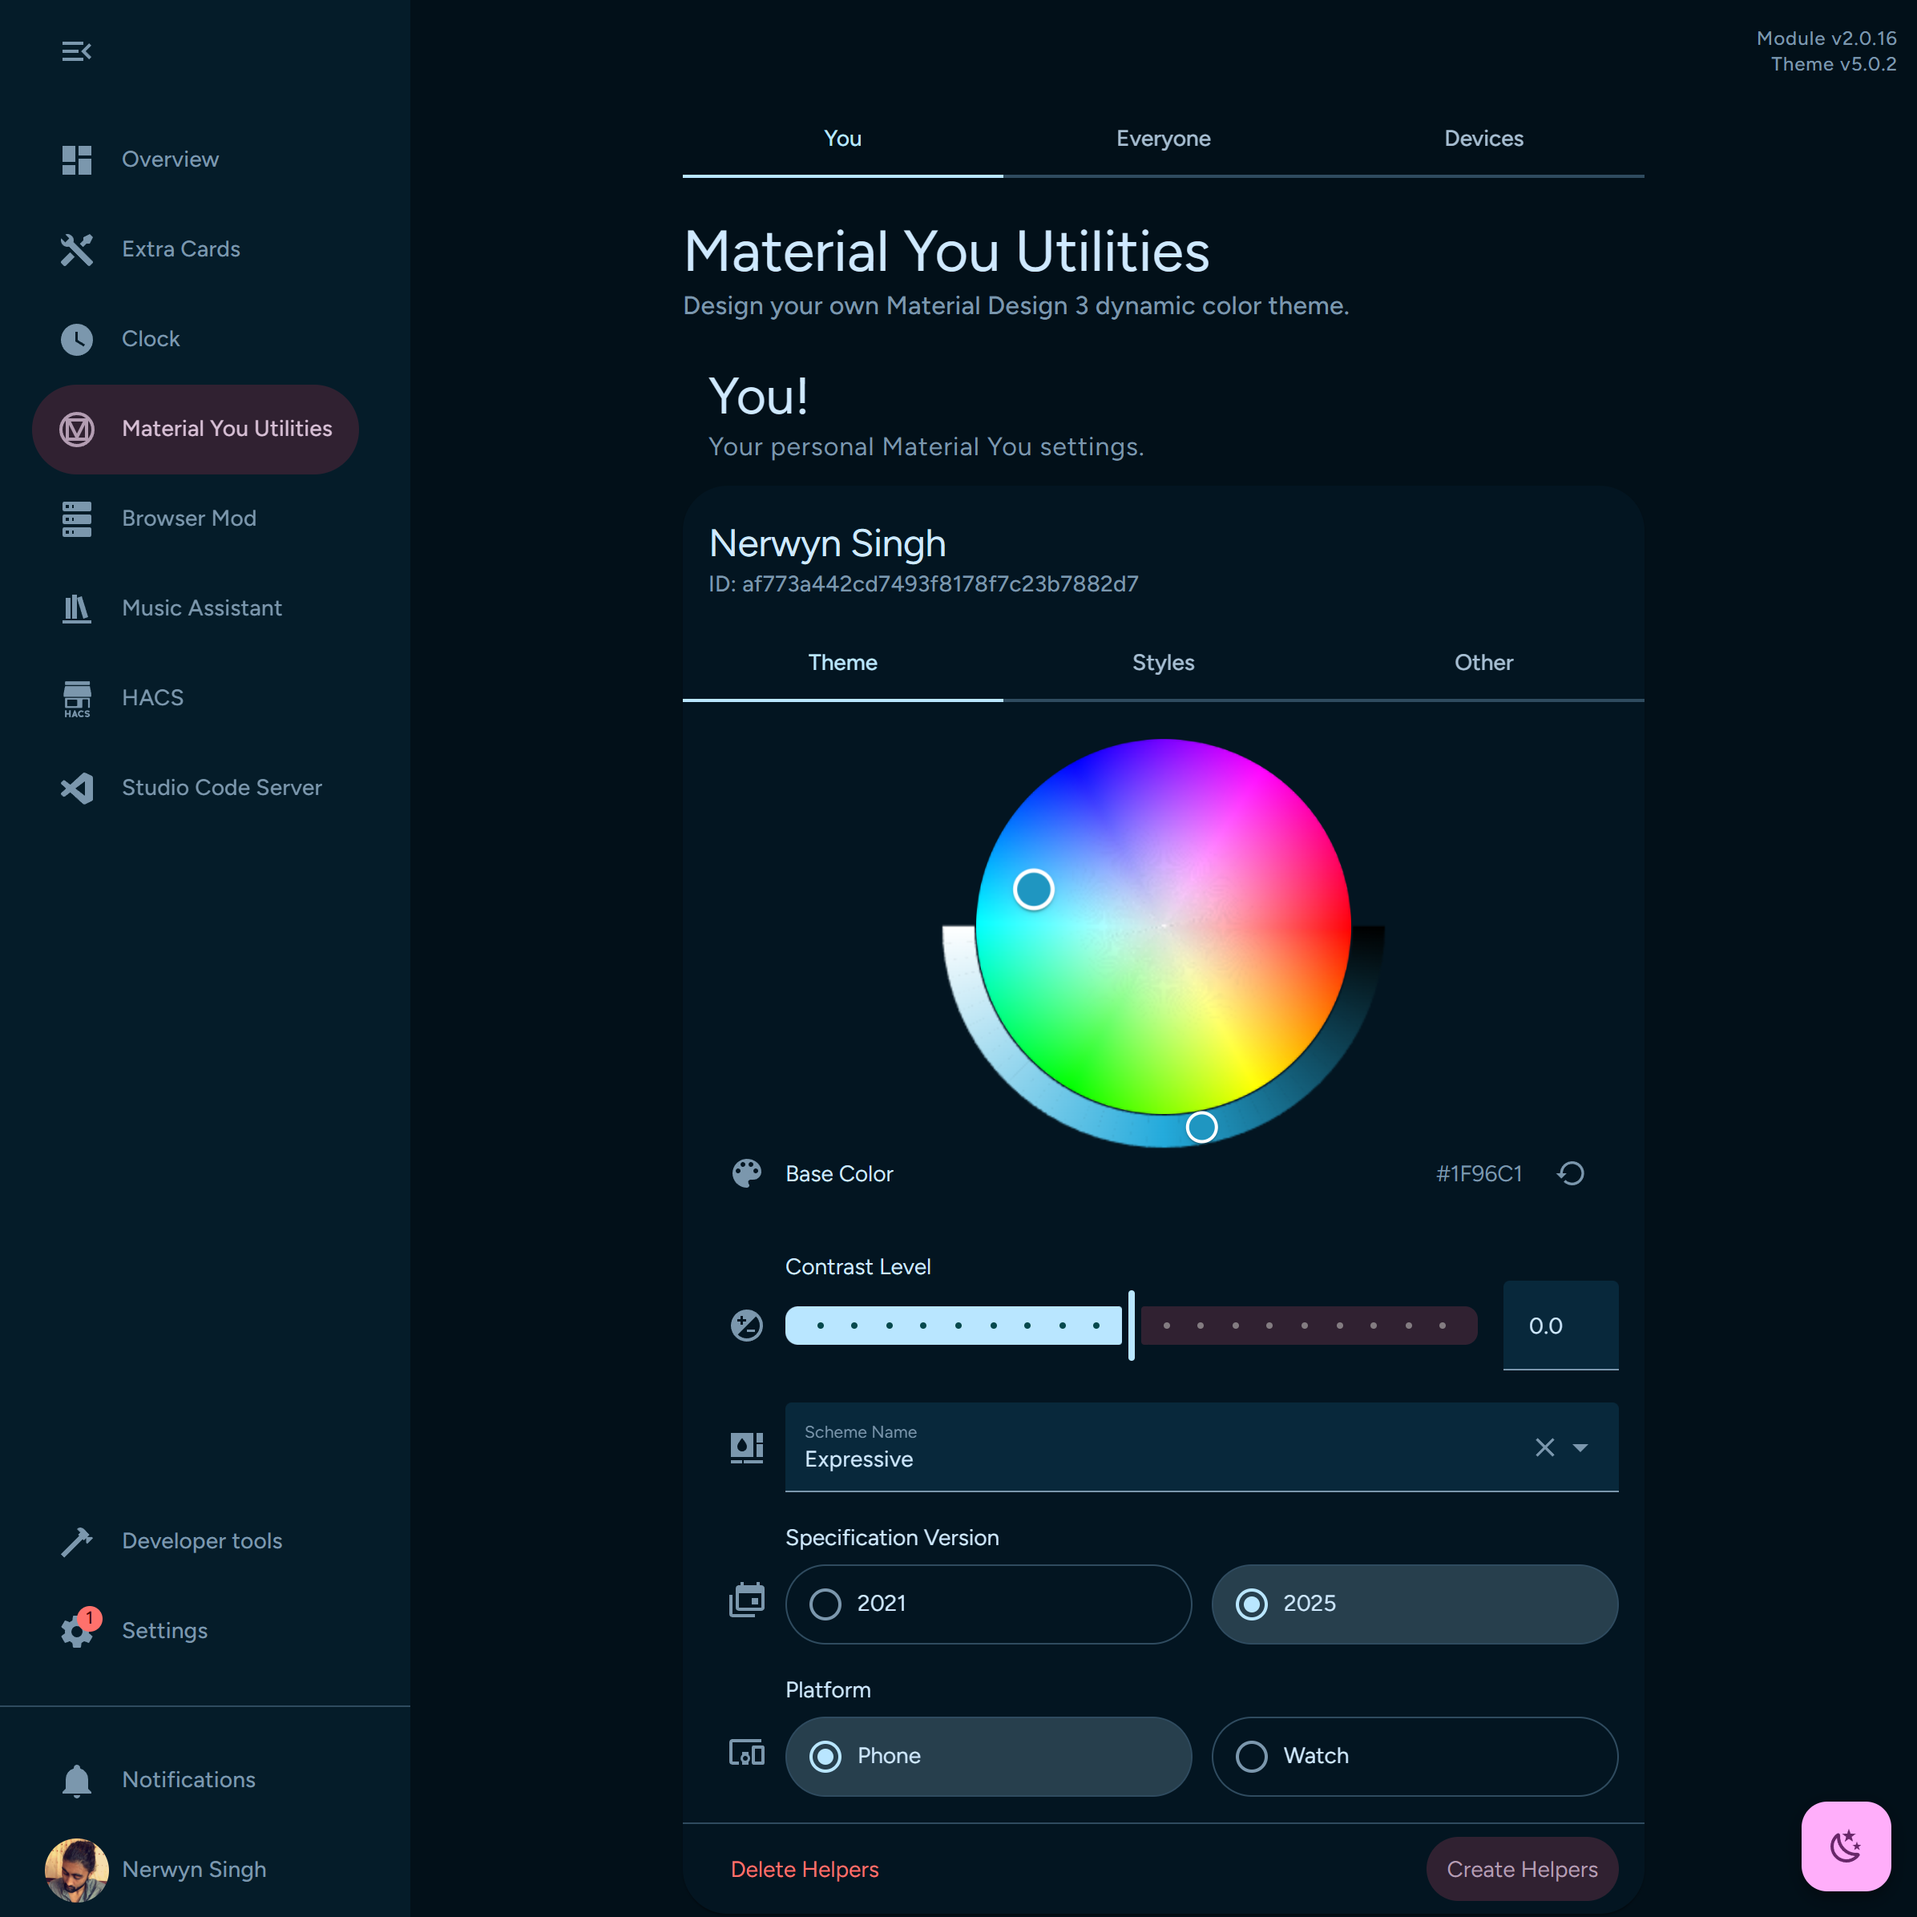
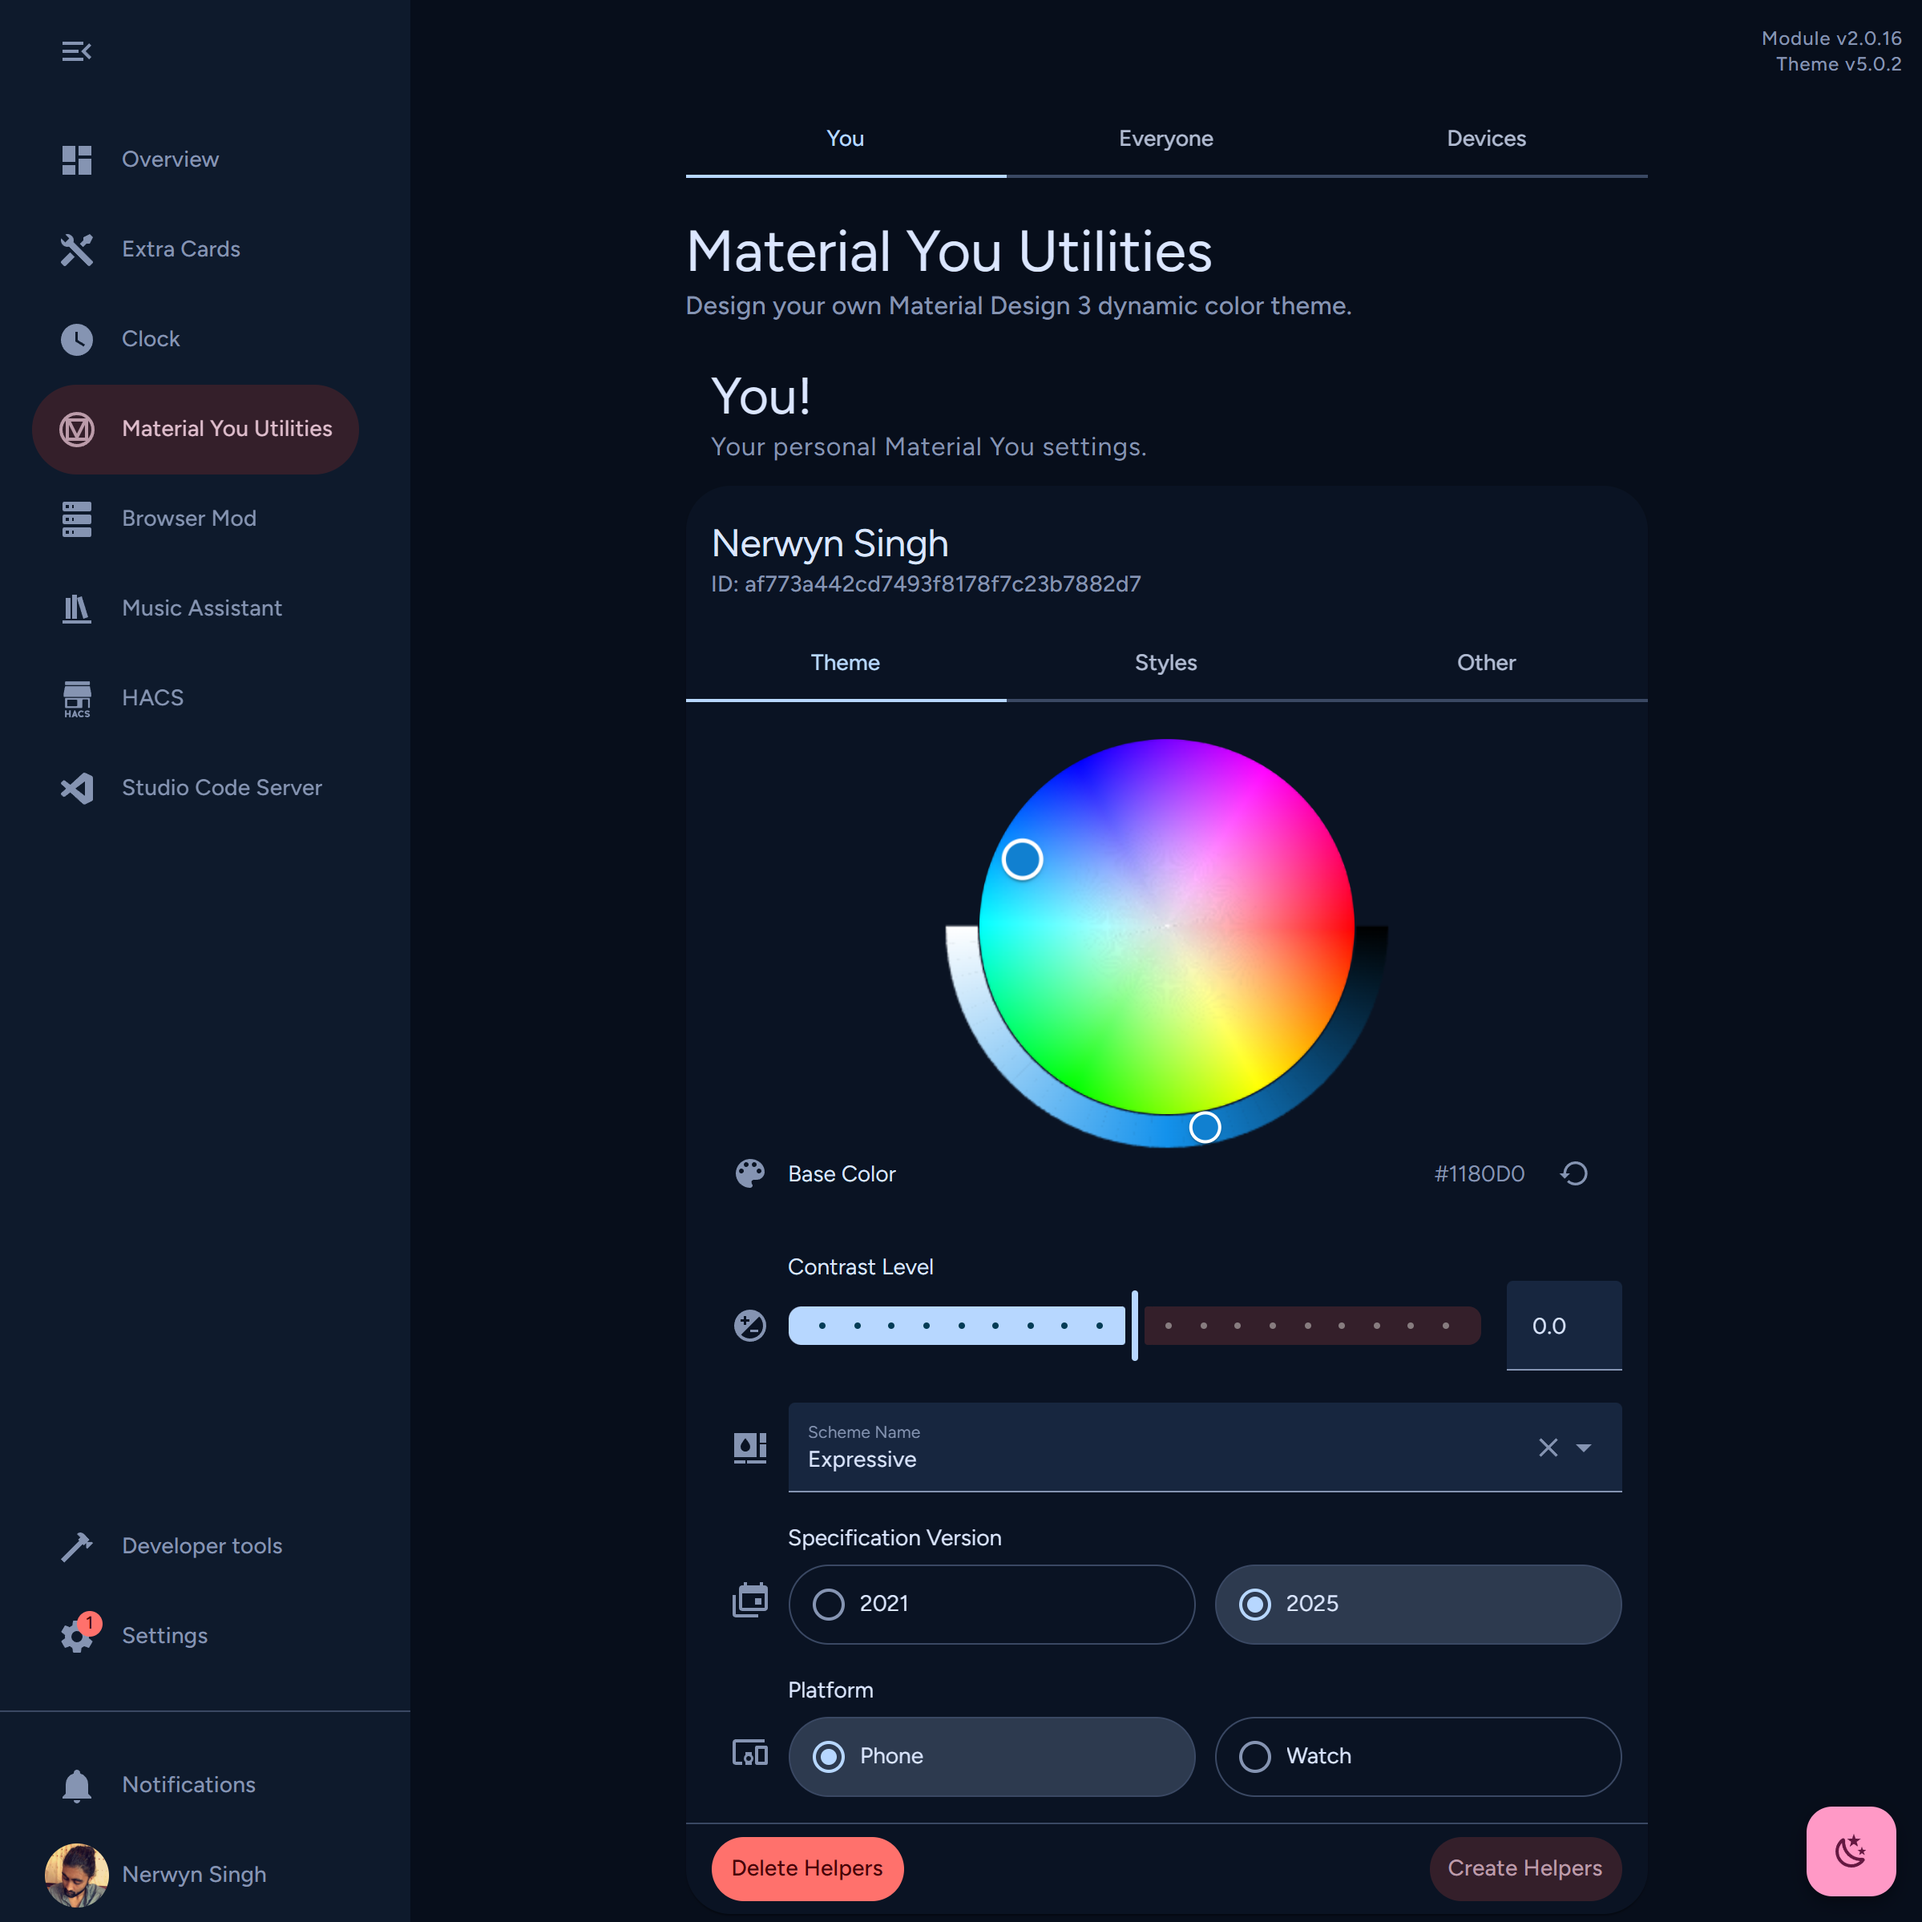
fix configuration panel card create/delete button font

diff --git a/dist/material-you-utilities.min.js b/dist/material-you-utilities.min.js
@@ -1741,7 +1741,7 @@ Use a query string like ?i=1 (between 0 and 3 inclusive) to choose alternate col
 				);letter-spacing:var(
 					--md-sys-typescale-label-large-tracking,
 					.1px
-				)}ha-tab-group{width:100%;margin:auto;text-transform:capitalize;position:relative;z-index:1;--sl-spacing-x-large:0}ha-tab-group::part(scroll-button){display:none}ha-tab-group-tab{flex:1}ha-tab-group-tab::part(base){width:100%;justify-content:center}ha-selector{width:100%}.row{display:flex;align-items:flex-end}.row:empty{display:none}.label{width:fit-content;text-align:center;align-content:center;margin:auto 0}.secondary{color:var(--secondary-text-color)}.column{display:flex;flex-direction:column;align-items:center;width:100%}.row.base_color{justify-content:center;align-items:center}.subrow{display:flex;justify-content:space-between;align-items:center;width:100%}.subrow .row{margin-bottom:0}.card-actions{display:flex;flex-direction:row;justify-content:space-between;height:40px}.button{display:flex;justify-content:center;align-items:center;background:var(--background);color:var(--color);cursor:pointer;user-select:none;-webkit-tap-highlight-color:transparent}.button::after{content:'';position:absolute;height:var(--ha-button-height,40px);border-radius:var(--ha-button-border-radius,20px);background-color:var(--color);pointer-events:none;opacity:0;transition:var(--md-sys-motion-expressive-effects-fast,opacity 15ms linear)}@media (hover:hover){.button:hover::after{opacity:.08}}.button:active::after{opacity:.1}ha-icon:focus-visible{outline:0}.button:has(ha-icon:focus-visible)::after{opacity:.1}.reset{height:var(--ha-button-height,40px);width:var(--ha-button-height,40px);margin:10px;--color:var(--secondary-text-color);--mdc-icon-size:20px}.more-info{height:var(--ha-button-height,40px);width:var(--ha-button-height,40px);min-width:var(--ha-button-height,40px);margin:8px 4px;--color:var(--state-icon-color);--mdc-icon-size:24px}.more-info::after,.reset::after{width:var(--ha-button-height,40px)}.create,.delete{margin:0 8px;height:var(--ha-button-height,40px);width:120px;border-radius:var(--ha-button-border-radius);transition:border-radius var(--md-sys-motion-expressive-spatial-fast);--ha-button-height:40px}.create::after,.delete::after{width:120px}.create{--background:var(--md-sys-color-secondary-container,
+				)}ha-tab-group{width:100%;margin:auto;text-transform:capitalize;position:relative;z-index:1;--sl-spacing-x-large:0}ha-tab-group::part(scroll-button){display:none}ha-tab-group-tab{flex:1}ha-tab-group-tab::part(base){width:100%;justify-content:center}ha-selector{width:100%}.row{display:flex;align-items:flex-end}.row:empty{display:none}.label{width:fit-content;text-align:center;align-content:center;margin:auto 0}.secondary{color:var(--secondary-text-color)}.column{display:flex;flex-direction:column;align-items:center;width:100%}.row.base_color{justify-content:center;align-items:center}.subrow{display:flex;justify-content:space-between;align-items:center;width:100%}.subrow .row{margin-bottom:0}.card-actions{display:flex;flex-direction:row;justify-content:space-between;height:40px}.button{display:flex;justify-content:center;align-items:center;background:var(--background);color:var(--color);cursor:pointer;user-select:none;-webkit-tap-highlight-color:transparent}.button::after{content:'';position:absolute;height:var(--ha-button-height,40px);border-radius:var(--ha-button-border-radius,20px);background-color:var(--color);pointer-events:none;opacity:0;transition:var(--md-sys-motion-expressive-effects-fast,opacity 15ms linear)}@media (hover:hover){.button:hover::after{opacity:.08}}.button:active::after{opacity:.1}ha-icon:focus-visible{outline:0}.button:has(ha-icon:focus-visible)::after{opacity:.1}.reset{height:var(--ha-button-height,40px);width:var(--ha-button-height,40px);margin:10px;--color:var(--secondary-text-color);--mdc-icon-size:20px}.more-info{height:var(--ha-button-height,40px);width:var(--ha-button-height,40px);min-width:var(--ha-button-height,40px);margin:8px 4px;--color:var(--state-icon-color);--mdc-icon-size:24px}.more-info::after,.reset::after{width:var(--ha-button-height,40px)}.create,.delete{margin:0 8px;height:var(--ha-button-height,40px);width:120px;border-radius:var(--ha-button-border-radius);transition:border-radius var(--md-sys-motion-expressive-spatial-fast);font-family:var(--font-family);font-size:var(--md-sys-typescale-label-large-size,14px);font-weight:var(--md-sys-typescale-label-large-weight,500);line-height:var(--md-sys-typescale-label-large-line-height,20px);letter-spacing:var(--md-sys-typescale-label-large-tracking,.1px);--ha-button-height:40px}.create::after,.delete::after{width:120px}.create{--background:var(--md-sys-color-secondary-container,
 					var(--secondary-background-color)
 				);--color:var(--md-sys-color-on-secondary-container, 
 					var(--text-primary-color)

diff --git a/src/classes/material-you-config-card.ts b/src/classes/material-you-config-card.ts
@@ -753,6 +753,7 @@ export class MaterialYouConfigCard extends LitElement {
 				height: var(--ha-button-height, 40px);
 				width: var(--ha-button-height, 40px);
 				margin: 10px;
+
 				--color: var(--secondary-text-color);
 				--ha-button-height, 40px: 36px;
 				--mdc-icon-size: 20px;
@@ -762,6 +763,7 @@ export class MaterialYouConfigCard extends LitElement {
 				width: var(--ha-button-height, 40px);
 				min-width: var(--ha-button-height, 40px);
 				margin: 8px 4px;
+
 				--color: var(--state-icon-color);
 				--ha-button-height, 40px: 40px;
 				--mdc-icon-size: 24px;
@@ -777,6 +779,12 @@ export class MaterialYouConfigCard extends LitElement {
 				width: 120px;
 				border-radius: var(--ha-button-border-radius);
 				transition: border-radius var(--md-sys-motion-expressive-spatial-fast);
+
+				font-family: var(--font-family);
+				font-size: var(--md-sys-typescale-label-large-size, 14px);
+				font-weight: var(--md-sys-typescale-label-large-weight, 500);
+				line-height: var(--md-sys-typescale-label-large-line-height, 20px);
+				letter-spacing: var(--md-sys-typescale-label-large-tracking, 0.1px);
 
 				--ha-button-height: 40px;
 			}
